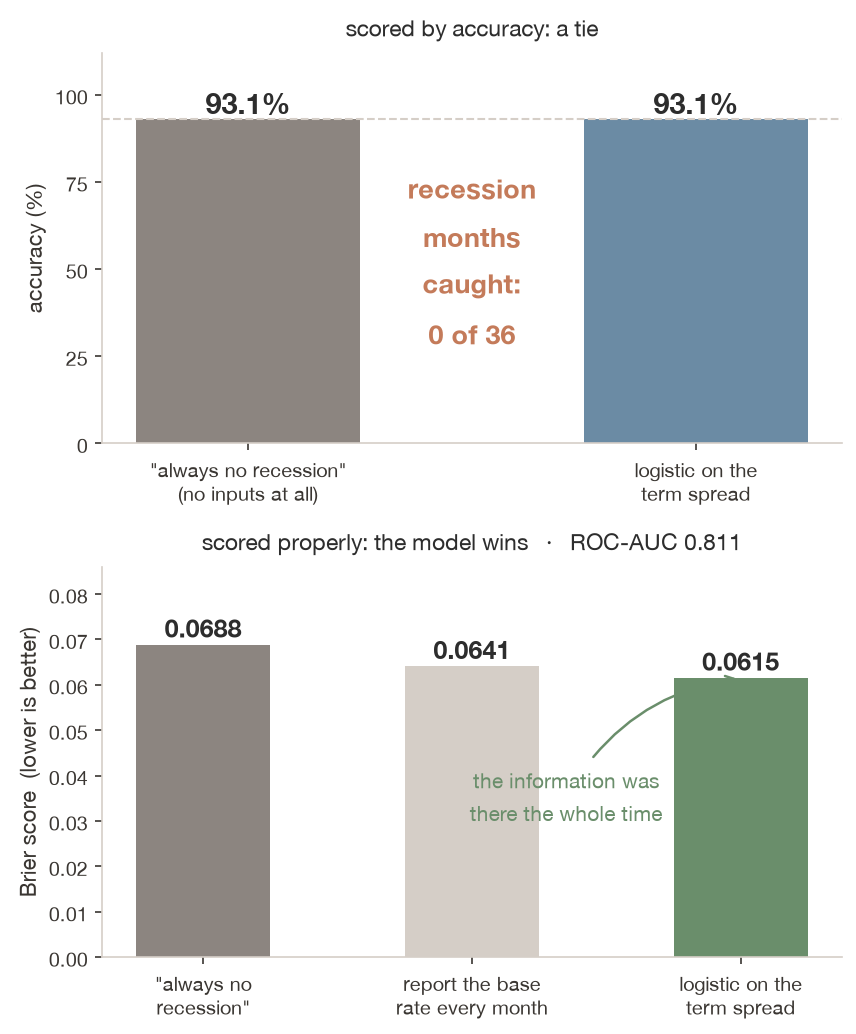
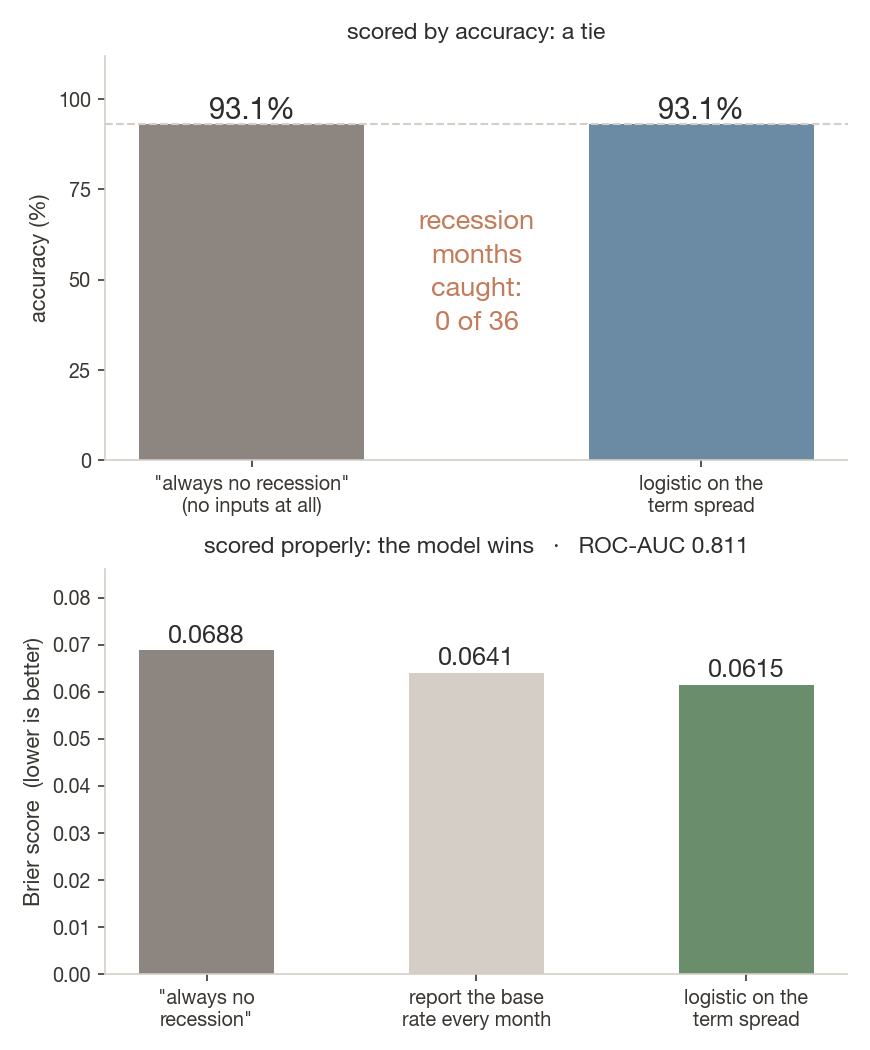
Topic 17: MLE slider, slope line on the S-curve, accuracy pages rebuilt

diff --git a/ch17-classification/index.html b/ch17-classification/index.html
@@ -1,7 +1,7 @@
 <!doctype html>
 <html lang="en">
 <head>
-<meta name="deck-build" content="public; speaker notes removed by strip_notes.py; out=28f349b0f5a4d6bc4f9141cdaac31c53">
+<meta name="deck-build" content="public; speaker notes removed by strip_notes.py; out=dff0877c1be10139edb1960d073734ca">
   <meta charset="utf-8">
   <meta name="viewport" content="width=device-width, initial-scale=1.0">
   <title>Classification: Logistic Regression</title>
@@ -905,7 +905,7 @@ odds ratio: exp(-0.8354) = 0.434</pre></div></div></div></div>
               <span class="t17-read" style="font-size: 14pt; white-space: nowrap; min-width: 4.5em; font-weight: 700;"></span>
             </div>
             <p class="t17-out" style="font-size: 14pt; margin: 6px 0 0; text-align: center;"></p>
-            <p style="font-size: 13pt; margin: 4px 0 0; text-align: center; color: var(--muted-color);">Drag to &minus;2, then to &#43;2: the first two readouts never change; the probability step shrinks.</p>
+            <p style="font-size: 13pt; margin: 4px 0 0; text-align: center; color: var(--muted-color);">Drag to &minus;2, then to &#43;2: the first two readouts never change; the S&rsquo;s slope falls from &minus;0.208 to &minus;0.025, eight times flatter.</p>
             <div class="key-result fragment fade-up" data-fragment-index="5" style="margin-top: 10px;">
               <p style="font-size: 14pt;">That shrinking step is the fix for Defect 1. The LPM falls 5.3 points everywhere and crosses zero at 2.87 (84 months); the logit&rsquo;s step shrinks near 0, so it never does. <strong>HC3 fixed the standard errors; it cannot bend the line.</strong></p>
             </div>
@@ -963,8 +963,8 @@ odds ratio: exp(-0.8354) = 0.434</pre></div></div></div></div>
             <p style="font-size: 13.5pt; line-height: 1.45; margin: 6px 0 0;">Multiply all 523: about \(3.6 \times 10^{-50}\), too small, so software adds the logs: the <strong>log-likelihood</strong>, &minus;113.84.</p>
           </div>
           <div class="fragment fade-up" data-fragment-index="2">
-            <p style="font-size: 14pt; margin: 0 0 2px;"><strong>Step 2. Try other slopes, keep the highest score.</strong></p>
-            <div class="mathjax_ignore tex2jax_ignore"><svg viewBox="0 0 560 262" width="100%" role="img" aria-label="The log-likelihood against the slope on the spread, with the intercept refitted at each slope: a single hill whose top is at minus 0.8354, log-likelihood minus 113.84; at a slope of 0 it is minus 131.07, the base rate every month" style="display:block;font-family:inherit">
+            <p style="font-size: 14pt; margin: 0 0 2px;"><strong>Step 2. Try other slopes, keep the highest score.</strong> Drag:</p>
+            <div class="mathjax_ignore tex2jax_ignore" id="t17-mle"><svg data-pts="[[-2.00,-134.75,64.0,210.2],[-1.98,-134.15,68.6,205.8],[-1.96,-133.56,73.2,201.5],[-1.94,-132.97,77.7,197.2],[-1.92,-132.38,82.3,192.9],[-1.90,-131.80,86.9,188.7],[-1.88,-131.23,91.5,184.6],[-1.86,-130.67,96.1,180.4],[-1.84,-130.11,100.6,176.4],[-1.82,-129.55,105.2,172.3],[-1.80,-129.01,109.8,168.4],[-1.78,-128.47,114.4,164.4],[-1.76,-127.93,119.0,160.5],[-1.74,-127.40,123.6,156.7],[-1.72,-126.89,128.1,152.9],[-1.70,-126.37,132.7,149.2],[-1.68,-125.87,137.3,145.5],[-1.66,-125.37,141.9,141.9],[-1.64,-124.88,146.5,138.3],[-1.62,-124.40,151.0,134.8],[-1.60,-123.92,155.6,131.4],[-1.58,-123.46,160.2,128.0],[-1.56,-123.00,164.8,124.6],[-1.54,-122.55,169.4,121.4],[-1.52,-122.11,173.9,118.2],[-1.50,-121.68,178.5,115.0],[-1.48,-121.26,183.1,112.0],[-1.46,-120.84,187.7,108.9],[-1.44,-120.44,192.3,106.0],[-1.42,-120.05,196.8,103.1],[-1.40,-119.66,201.4,100.3],[-1.38,-119.29,206.0,97.6],[-1.36,-118.92,210.6,95.0],[-1.34,-118.57,215.2,92.4],[-1.32,-118.23,219.8,89.9],[-1.30,-117.90,224.3,87.5],[-1.28,-117.58,228.9,85.2],[-1.26,-117.27,233.5,82.9],[-1.24,-116.97,238.1,80.7],[-1.22,-116.68,242.7,78.7],[-1.20,-116.41,247.2,76.7],[-1.18,-116.15,251.8,74.8],[-1.16,-115.90,256.4,73.0],[-1.14,-115.67,261.0,71.2],[-1.12,-115.44,265.6,69.6],[-1.10,-115.23,270.1,68.1],[-1.08,-115.04,274.7,66.7],[-1.06,-114.86,279.3,65.3],[-1.04,-114.69,283.9,64.1],[-1.02,-114.53,288.5,63.0],[-1.00,-114.39,293.0,62.0],[-0.98,-114.27,297.6,61.1],[-0.96,-114.16,302.2,60.3],[-0.94,-114.07,306.8,59.6],[-0.92,-113.99,311.4,59.1],[-0.90,-113.93,316.0,58.6],[-0.88,-113.88,320.5,58.3],[-0.86,-113.85,325.1,58.1],[-0.84,-113.84,329.7,58.0],[-0.82,-113.85,334.3,58.0],[-0.80,-113.87,338.9,58.2],[-0.78,-113.91,343.4,58.4],[-0.76,-113.97,348.0,58.9],[-0.74,-114.04,352.6,59.4],[-0.72,-114.13,357.2,60.1],[-0.70,-114.25,361.8,60.9],[-0.68,-114.38,366.3,61.9],[-0.66,-114.53,370.9,62.9],[-0.64,-114.69,375.5,64.2],[-0.62,-114.88,380.1,65.5],[-0.60,-115.09,384.7,67.1],[-0.58,-115.32,389.2,68.7],[-0.56,-115.57,393.8,70.5],[-0.54,-115.83,398.4,72.5],[-0.52,-116.12,403.0,74.6],[-0.50,-116.43,407.6,76.8],[-0.48,-116.76,412.2,79.2],[-0.46,-117.11,416.7,81.8],[-0.44,-117.48,421.3,84.5],[-0.42,-117.87,425.9,87.3],[-0.40,-118.29,430.5,90.3],[-0.38,-118.72,435.1,93.5],[-0.36,-119.18,439.6,96.8],[-0.34,-119.66,444.2,100.3],[-0.32,-120.15,448.8,103.9],[-0.30,-120.67,453.4,107.7],[-0.28,-121.22,458.0,111.7],[-0.26,-121.78,462.5,115.8],[-0.24,-122.37,467.1,120.0],[-0.22,-122.97,471.7,124.4],[-0.20,-123.60,476.3,129.0],[-0.18,-124.25,480.9,133.8],[-0.16,-124.92,485.4,138.7],[-0.14,-125.62,490.0,143.7],[-0.12,-126.33,494.6,148.9],[-0.10,-127.07,499.2,154.3],[-0.08,-127.83,503.8,159.8],[-0.06,-128.61,508.4,165.5],[-0.04,-129.41,512.9,171.3],[-0.02,-130.23,517.5,177.3],[0.00,-131.07,522.1,183.4]]" viewBox="0 0 560 262" width="84%" role="img" aria-label="The log-likelihood against the slope on the spread, with the intercept refitted at each slope: a single hill whose top is at minus 0.8354, log-likelihood minus 113.84; at a slope of 0 it is minus 131.07, the base rate every month" style="display:block;margin:0 auto;font-family:inherit">
 <line x1="64" y1="212" x2="545" y2="212" stroke="#BFB8B0"/><line x1="64" y1="30" x2="64" y2="212" stroke="#BFB8B0"/>
 <text x="58" y="180.6" font-size="13" fill="#6B645E" text-anchor="end">−130</text>
 <text x="58" y="107.8" font-size="13" fill="#6B645E" text-anchor="end">−120</text>
@@ -979,14 +979,15 @@ odds ratio: exp(-0.8354) = 0.434</pre></div></div></div></div>
 <path d="M64.0 210.2 L68.6 205.8 L73.2 201.5 L77.7 197.2 L82.3 192.9 L86.9 188.7 L91.5 184.6 L96.1 180.4 L100.6 176.4 L105.2 172.3 L109.8 168.4 L114.4 164.4 L119.0 160.5 L123.6 156.7 L128.1 152.9 L132.7 149.2 L137.3 145.5 L141.9 141.9 L146.5 138.3 L151.0 134.8 L155.6 131.4 L160.2 128.0 L164.8 124.6 L169.4 121.4 L173.9 118.2 L178.5 115.0 L183.1 112.0 L187.7 108.9 L192.3 106.0 L196.8 103.1 L201.4 100.3 L206.0 97.6 L210.6 95.0 L215.2 92.4 L219.8 89.9 L224.3 87.5 L228.9 85.2 L233.5 82.9 L238.1 80.7 L242.7 78.7 L247.2 76.7 L251.8 74.8 L256.4 73.0 L261.0 71.2 L265.6 69.6 L270.1 68.1 L274.7 66.7 L279.3 65.3 L283.9 64.1 L288.5 63.0 L293.0 62.0 L297.6 61.1 L302.2 60.3 L306.8 59.6 L311.4 59.1 L316.0 58.6 L320.5 58.3 L325.1 58.1 L329.7 58.0 L334.3 58.0 L338.9 58.2 L343.4 58.4 L348.0 58.9 L352.6 59.4 L357.2 60.1 L361.8 60.9 L366.3 61.9 L370.9 62.9 L375.5 64.2 L380.1 65.5 L384.7 67.1 L389.2 68.7 L393.8 70.5 L398.4 72.5 L403.0 74.6 L407.6 76.8 L412.2 79.2 L416.7 81.8 L421.3 84.5 L425.9 87.3 L430.5 90.3 L435.1 93.5 L439.6 96.8 L444.2 100.3 L448.8 103.9 L453.4 107.7 L458.0 111.7 L462.5 115.8 L467.1 120.0 L471.7 124.4 L476.3 129.0 L480.9 133.8 L485.4 138.7 L490.0 143.7 L494.6 148.9 L499.2 154.3 L503.8 159.8 L508.4 165.5 L512.9 171.3 L517.5 177.3 L522.1 183.4" fill="none" stroke="#1565C0" stroke-width="3.5"/>
 <circle cx="522.1" cy="183.4" r="4.5" fill="#6B645E"/>
 <text x="510.1" y="188.4" font-size="13" fill="#6B645E" text-anchor="end">slope 0 (base rate only): −131.07</text>
-<circle cx="430.5" cy="90.3" r="4.5" fill="#6B645E"/>
-<text x="420.5" y="106.3" font-size="13" fill="#6B645E" text-anchor="end">−118.29</text>
-<circle cx="247.2" cy="76.7" r="4.5" fill="#6B645E"/>
-<text x="257.2" y="92.7" font-size="13" fill="#6B645E" text-anchor="start">−116.41</text>
-<circle cx="155.6" cy="131.4" r="4.5" fill="#6B645E"/>
-<text x="165.6" y="147.4" font-size="13" fill="#6B645E" text-anchor="start">−123.92</text>
 <circle cx="330.7" cy="58.0" r="7" fill="#C0603A" stroke="#fff" stroke-width="2"/><text x="330.7" y="44.0" font-size="15" font-weight="700" fill="#C0603A" text-anchor="middle">top: −0.8354, −113.84</text>
-</svg></div>
+<g class="mle-dot"><line x1="0" x2="0" y1="212" y2="212" stroke="#1565C0" stroke-dasharray="3 3"/><circle cx="155.6" cy="131.4" r="7" fill="#1565C0" stroke="#fff" stroke-width="2"/></g>
+</svg>
+              <div style="display: flex; align-items: center; gap: 10px; margin-top: 2px;">
+                <span style="font-size: 12pt; color: var(--muted-color); white-space: nowrap;">slope</span>
+                <input type="range" min="-2" max="0" step="0.02" value="-1.6" style="flex: 1 1 auto;" aria-label="slope on the spread" onkeydown="event.stopPropagation()">
+              </div>
+              <p class="t17-mle-out" style="font-size: 13pt; margin: 2px 0 0; text-align: center;"></p>
+            </div>
           </div>
         </div>
         <div class="key-result fragment fade-up" data-fragment-index="3" style="margin-top: 6px;">
@@ -1050,17 +1051,24 @@ spread + unrate   0.0616   0.810       0.132
     <section id="the-arithmetic" style="padding: 32px 58px;">
       <h2><i class="fa-solid fa-calculator" style="color: var(--accent-color);"></i> The Reason Is Arithmetic</h2>
       <div class="content">
-        <div class="mock colab mathjax_ignore tex2jax_ignore" style="--mk-size: 13pt;"><div class="mk-cell"><div class="mk-gut"><div class="mk-run"></div></div><div class="mk-body"><pre class="mk-code"><code>pred = (p_hat &gt;= <span class="t-num">0.5</span>).astype(int)
+        <div class="mock colab mathjax_ignore tex2jax_ignore" style="--mk-size: 12pt;"><div class="mk-cell"><div class="mk-gut"><div class="mk-run"></div></div><div class="mk-body"><pre class="mk-code"><code>pred = (p_hat &gt;= <span class="t-num">0.5</span>).astype(int)
 print(f<span class="t-str">&quot;&#x27;always no recession&#x27;:    accuracy {(y == 0).mean():.1%}&quot;</span>)
 print(f<span class="t-str">&quot;logistic at p &gt;= 0.5:     accuracy {(pred == y).mean():.1%}&quot;</span>)
 print(f<span class="t-str">&quot;recession months caught:  {(pred[y == 1] == 1).sum()} of {(y == 1).sum()}&quot;</span>)</code></pre><div class="mk-out mk-mono" style="display: block;"><pre>'always no recession':    accuracy 93.1%
 logistic at p >= 0.5:     accuracy 93.1%
 recession months caught:  0 of 36</pre></div></div></div></div>
-        <p class="text-lg" style="margin-top: 16px; line-height: 1.55;">Only <strong>6.9%</strong> of months precede a recession, so a model that says &ldquo;no&rdquo; every time is right 93.1% of the time <em>for free</em>.</p>
-        <div class="key-result" style="margin-top: 14px;">
-          <p style="font-size: 17pt;"><strong>Accuracy's benchmark is set by the base rate</strong> &mdash; and with imbalanced classes that benchmark is high enough to disguise total uselessness.</p>
+        <div class="fragment fade-up" data-fragment-index="1" style="margin-top: 12px;">
+          <p style="font-size: 15pt; margin: 0;"><strong>Count it.</strong> 523 months; a recession followed in 36, so the <strong>base rate</strong> is 36 / 523 = 6.9%.</p>
+          <div style="display: flex; height: 34px; border-radius: 6px; overflow: hidden; font-size: 13pt; font-weight: 700; color: #fff; margin: 6px 0 4px;">
+            <div style="flex: 487; background: #8F857D; display: flex; align-items: center; padding-left: 12px;">487 quiet months: &ldquo;no&rdquo; is right</div>
+            <div style="flex: 36; background: #C0603A; display: flex; align-items: center; justify-content: center;">36</div>
+          </div>
+          <p style="font-size: 15pt; margin: 0;">&ldquo;No&rdquo; every month is right 487 times: 487 / 523 = <strong>93.1%</strong>, which is 1 &minus; 6.9%.</p>
         </div>
-        <p style="margin-top: 14px; font-size: 15.5pt; line-height: 1.55;">And <strong>0.5 is a threshold nobody chose.</strong> It is a library default, inherited from a two-class problem with a 50% base rate. With a 6.9% base rate the predicted probability rarely climbs above 0.5, so the rule almost never fires.</p>
+        <div class="key-result fragment fade-up" data-fragment-index="2" style="margin-top: 12px;">
+          <p style="font-size: 16pt;"><strong>Accuracy&rsquo;s benchmark is 1 &minus; the base rate</strong>, and at 6.9% it is high enough to hide a model that does nothing.</p>
+        </div>
+        <p class="fragment fade-up" data-fragment-index="3" style="margin-top: 12px; font-size: 15pt;">And <strong>0.5 is a threshold nobody chose</strong>, a library default. Our model&rsquo;s highest probability in 523 months is 0.423 (May 2023), so the 0.5 rule fires in <strong>0 months</strong>.</p>
       </div>
     </section>
 
@@ -1071,33 +1079,37 @@ recession months caught:  0 of 36</pre></div></div></div></div>
           <thead><tr style="border-bottom: 2px solid var(--secondary-color);">
             <th style="text-align: left; padding: 9px 14px;">Application</th>
             <th style="text-align: right; padding: 9px 14px;">Typical base rate</th>
-            <th style="text-align: right; padding: 9px 14px;">Accuracy of &ldquo;always no&rdquo;</th>
+            <th style="text-align: right; padding: 9px 14px;">&ldquo;Always no&rdquo; = 1 &minus; base rate</th>
           </tr></thead>
           <tbody>
-            <tr style="border-bottom: 1px solid #eae4dd;"><td style="padding: 8px 14px;">Recession 12 months ahead</td><td style="text-align: right; padding: 8px 14px;">~7%</td><td style="text-align: right; padding: 8px 14px;">93%</td></tr>
-            <tr style="border-bottom: 1px solid #eae4dd;"><td style="padding: 8px 14px;">Consumer loan default</td><td style="text-align: right; padding: 8px 14px;">2&ndash;5%</td><td style="text-align: right; padding: 8px 14px;">95&ndash;98%</td></tr>
-            <tr style="border-bottom: 1px solid #eae4dd; background: #f8f6f3;"><td style="padding: 8px 14px;">Card fraud</td><td style="text-align: right; padding: 8px 14px;">~0.2%</td><td style="text-align: right; padding: 8px 14px;"><strong>99.8%</strong></td></tr>
-            <tr><td style="padding: 8px 14px;">Rare disease screening</td><td style="text-align: right; padding: 8px 14px;">&lt;1%</td><td style="text-align: right; padding: 8px 14px;">&gt;99%</td></tr>
+            <tr style="border-bottom: 1px solid #eae4dd;"><td style="padding: 8px 14px;">Recession 12 months ahead (ours)</td><td style="text-align: right; padding: 8px 14px;">6.9%</td><td style="text-align: right; padding: 8px 14px;">93.1%</td></tr>
+            <tr class="fragment" data-fragment-index="1" style="border-bottom: 1px solid #eae4dd;"><td style="padding: 8px 14px;">Consumer loan default</td><td style="text-align: right; padding: 8px 14px;">2&ndash;5%</td><td style="text-align: right; padding: 8px 14px;">95&ndash;98%</td></tr>
+            <tr class="fragment" data-fragment-index="2" style="border-bottom: 1px solid #eae4dd;"><td style="padding: 8px 14px;">Rare disease screening</td><td style="text-align: right; padding: 8px 14px;">&lt;1%</td><td style="text-align: right; padding: 8px 14px;">&gt;99%</td></tr>
+            <tr class="fragment" data-fragment-index="3" style="background: #f8f6f3;"><td style="padding: 8px 14px;">Card fraud</td><td style="text-align: right; padding: 8px 14px;">~0.2%</td><td style="text-align: right; padding: 8px 14px;"><strong>99.8%</strong></td></tr>
           </tbody>
         </table>
-        <div class="key-result" style="margin-top: 18px;">
-          <p style="font-size: 17pt;">Prediction is valuable precisely when an event is <strong>rare and consequential</strong> &mdash; which is precisely when accuracy stops working. <strong>Accuracy is least informative exactly where classification matters most.</strong></p>
+        <div class="key-result fragment fade-up" data-fragment-index="4" style="margin-top: 18px;">
+          <p style="font-size: 17pt;">The rarer the event, the more accuracy pays for doing nothing. Prediction matters most when an event is <strong>rare and consequential</strong>: exactly where accuracy says least.</p>
         </div>
       </div>
     </section>
 
     <section id="fig-accuracy" style="padding: 18px 45px;">
       <h2 style="margin-bottom: 2px;"><i class="fa-solid fa-chart-simple" style="color: var(--success-color);"></i> Scored Two Ways</h2>
-      <div class="content" style="display: grid; grid-template-columns: 44% 56%; gap: 24px; align-items: center;">
+      <div class="content" style="display: grid; grid-template-columns: 50% 50%; gap: 22px; align-items: center;">
         <div>
-          <p style="font-size: 14.5pt; line-height: 1.5;">By <strong>accuracy</strong>, a tie: a rule with no inputs at all matches our yield-curve logit.</p>
-          <p style="font-size: 14.5pt; line-height: 1.5; margin-top: 12px;">By the <strong>Brier score</strong> (the average squared gap between each predicted probability and what happened, 1 or 0; lower is better), the logistic model beats both the do-nothing rule and a model that just reports the base rate every month.</p>
-          <div class="key-result" style="margin-top: 12px;">
-            <p style="font-size: 14pt;">The information was there the whole time. <strong>Accuracy threw it away</strong>, by collapsing a well-ordered set of probabilities into a yes/no call at an arbitrary cutoff.</p>
+          <p style="font-size: 14.5pt; line-height: 1.45; margin: 0;"><strong>Top: accuracy.</strong> A tie at 93.1%, with 0 of 36 recession months caught.</p>
+          <div class="fragment fade-up" data-fragment-index="1" style="margin-top: 10px;">
+            <p style="font-size: 14.5pt; line-height: 1.45; margin: 0;"><strong>Bottom: the Brier score</strong>, the average of \((\hat p - y)^2\) over all months; lower is better. Two months:</p>
+            <table style="width: 100%; font-size: 12.5pt; border-collapse: collapse; margin: 6px 0;"><thead><tr style="border-bottom: 2px solid var(--secondary-color);"><th style="text-align: left; padding: 5px 10px;">Month</th><th style="text-align: right; padding: 5px 10px;">\(y\)</th><th style="text-align: right; padding: 5px 10px;">\(\hat p\)</th><th style="text-align: right; padding: 5px 10px;">model \((\hat p - y)^2\)</th><th style="text-align: right; padding: 5px 10px;">always no</th></tr></thead><tbody><tr style="border-bottom: 1px solid #eae4dd;"><td style="padding: 5px 10px;">Mar 2007</td><td style="text-align: right; padding: 5px 10px;">1</td><td style="text-align: right; padding: 5px 10px;">0.209</td><td style="text-align: right; padding: 5px 10px;">0.625</td><td style="text-align: right; padding: 5px 10px;">1</td></tr><tr><td style="padding: 5px 10px;">Sept 1982</td><td style="text-align: right; padding: 5px 10px;">0</td><td style="text-align: right; padding: 5px 10px;">0.005</td><td style="text-align: right; padding: 5px 10px;">0.000</td><td style="text-align: right; padding: 5px 10px;">0</td></tr></tbody></table>
+            <p style="font-size: 13.5pt; line-height: 1.45; margin: 0;">&ldquo;Always no&rdquo; pays 1 for each of the 36 recession months: 36 / 523 = <strong>0.0688</strong>. The base rate every month: <strong>0.0641</strong>. The model: <strong>0.0615</strong>, the lowest.</p>
           </div>
-          <p style="font-size: 14pt; margin-top: 10px; color: var(--secondary-color);">ROC-AUC 0.811: given one month that preceded a recession and one that did not, the model ranks them correctly about 81% of the time.</p>
+          <div class="key-result fragment fade-up" data-fragment-index="2" style="margin-top: 10px;">
+            <p style="font-size: 14pt;">The information was there. <strong>Accuracy threw it away</strong> by turning probabilities into yes or no at 0.5.</p>
+          </div>
+          <p class="fragment fade-up" data-fragment-index="3" style="font-size: 13.5pt; margin-top: 8px; color: var(--secondary-color);">AUC 0.811: a recession month is ranked above a quiet one about 81% of the time.</p>
         </div>
-        <img class="figure" src="figures/figure_003_accuracy_trap.png" alt="Two stacked bar panels: the naive always-no rule and the logistic model both scoring 93.1 per cent accuracy with the model catching none of the 36 recession months, and below it Brier scores of 0.0688, 0.0641 and 0.0615 in which the logistic model is lowest and therefore best" style="max-height: 560px; width: auto; display: block; margin: 0 auto;">
+        <div class="r-stack" style="width: 100%; min-width: 0;"><img class="figure" src="figures/figure_003_accuracy_trap_s1.png" alt="The accuracy panel: the always-no rule and the logistic model both at 93.1 per cent, 0 of 36 recession months caught; the Brier panel below is still empty" style="max-width: 100%; max-height: 520px; width: auto; height: auto; display: block; margin: 0 auto;"><img class="figure fragment" data-fragment-index="1" src="figures/figure_003_accuracy_trap.png" alt="Two stacked bar panels: always-no and the logistic model both at 93.1 per cent accuracy with 0 of 36 recession months caught, and below them Brier scores of 0.0688, 0.0641 and 0.0615, the logistic model lowest and therefore best" style="max-width: 100%; max-height: 520px; width: auto; height: auto; display: block; margin: 0 auto;"></div>
       </div>
     </section>
 
@@ -1669,6 +1681,8 @@ predicted defaults: 0 of 1800</pre></div></div></div></div>
                  c: el('circle', {r: 7, fill: q.c, stroke: '#fff', 'stroke-width': 2}),
                  l: el('text', {'font-size': 16, 'font-weight': 700, fill: '#2D2D2D'})});
       });
+      // the S-curve's slope line at the chosen spread, beta p(1-p): -0.208 at -2, -0.025 at +2 (the old fig-scales lines)
+      var tg = el('line', {stroke: '#2D2D2D', 'stroke-width': 2.5}), tl = el('text', {'font-size': 15, 'font-weight': 700, fill: '#2D2D2D', 'text-anchor': 'end'});
       function draw() {
         var s = +sl.value;
         P.forEach(function (q, k) {
@@ -1678,9 +1692,34 @@ predicted defaults: 0 of 1800</pre></div></div></div></div>
           var right = s <= 2.2; m.l.setAttribute('x', x + (right ? 11 : -11)); m.l.setAttribute('y', Math.max(T + 14, y - (right ? 12 : 24)));
           m.l.setAttribute('text-anchor', right ? 'start' : 'end'); m.l.textContent = q.fmt(q.f(s)).replace('-', '\u2212');
         });
+        var p = pr(s), b = B1 * p * (1 - p), d = 0.9;
+        tg.setAttribute('x1', X(2, s - d)); tg.setAttribute('y1', Y(2, p - b * d));
+        tg.setAttribute('x2', X(2, s + d)); tg.setAttribute('y2', Y(2, p + b * d));
+        tl.setAttribute('x', X(2, 3)); tl.setAttribute('y', T + 16);     // fixed corner: never on the curve
+        tl.textContent = 'slope \u2212' + Math.abs(b).toFixed(3);
         rd.textContent = (s > 0 ? '+' : '') + s.toFixed(1).replace('-', '\u2212');
         var drop = 100 * (pr(s) - pr(s + 1));
-        out.textContent = 'One point wider from here: log-odds −0.84, odds ×0.434, probability −' + drop.toFixed(1) + ' points.';
+        out.textContent = 'One point wider from here: log-odds −0.84, odds ×0.434, probability −' + drop.toFixed(1) + ' points. Slope of the S here: −' + Math.abs(b).toFixed(3) + '.';
+      }
+      sl.addEventListener('input', draw); draw();
+    }
+    if (document.readyState === 'loading') document.addEventListener('DOMContentLoaded', init); else init();
+  })();
+  </script>
+  <script>
+  /* Topic 17: the likelihood hill's slope slider (mle slide). Points precomputed by figures/gen_t17_s3.py. */
+  (function () {
+    function init() {
+      var box = document.getElementById('t17-mle'); if (!box) return;
+      var svg = box.querySelector('svg'), sl = box.querySelector('input'), out = box.querySelector('.t17-mle-out');
+      var P = JSON.parse(svg.getAttribute('data-pts')), dot = svg.querySelector('.mle-dot circle'), ln = svg.querySelector('.mle-dot line');
+      var m = function (v) { return (v < 0 ? '\u2212' : '') + Math.abs(v).toFixed(2); };
+      function draw() {
+        var i = Math.round((+sl.value + 2) / 0.02), q = P[Math.max(0, Math.min(P.length - 1, i))];
+        dot.setAttribute('cx', q[2]); dot.setAttribute('cy', q[3]);
+        ln.setAttribute('x1', q[2]); ln.setAttribute('x2', q[2]); ln.setAttribute('y2', q[3]);
+        out.innerHTML = 'slope ' + m(q[0]) + ': log-likelihood <strong>' + m(q[1]) + '</strong>' +
+          (Math.abs(q[0] + 0.84) < 0.011 ? ' &middot; the top' : ' &middot; the top is \u22120.8354, \u2212113.84');
       }
       sl.addEventListener('input', draw); draw();
     }
